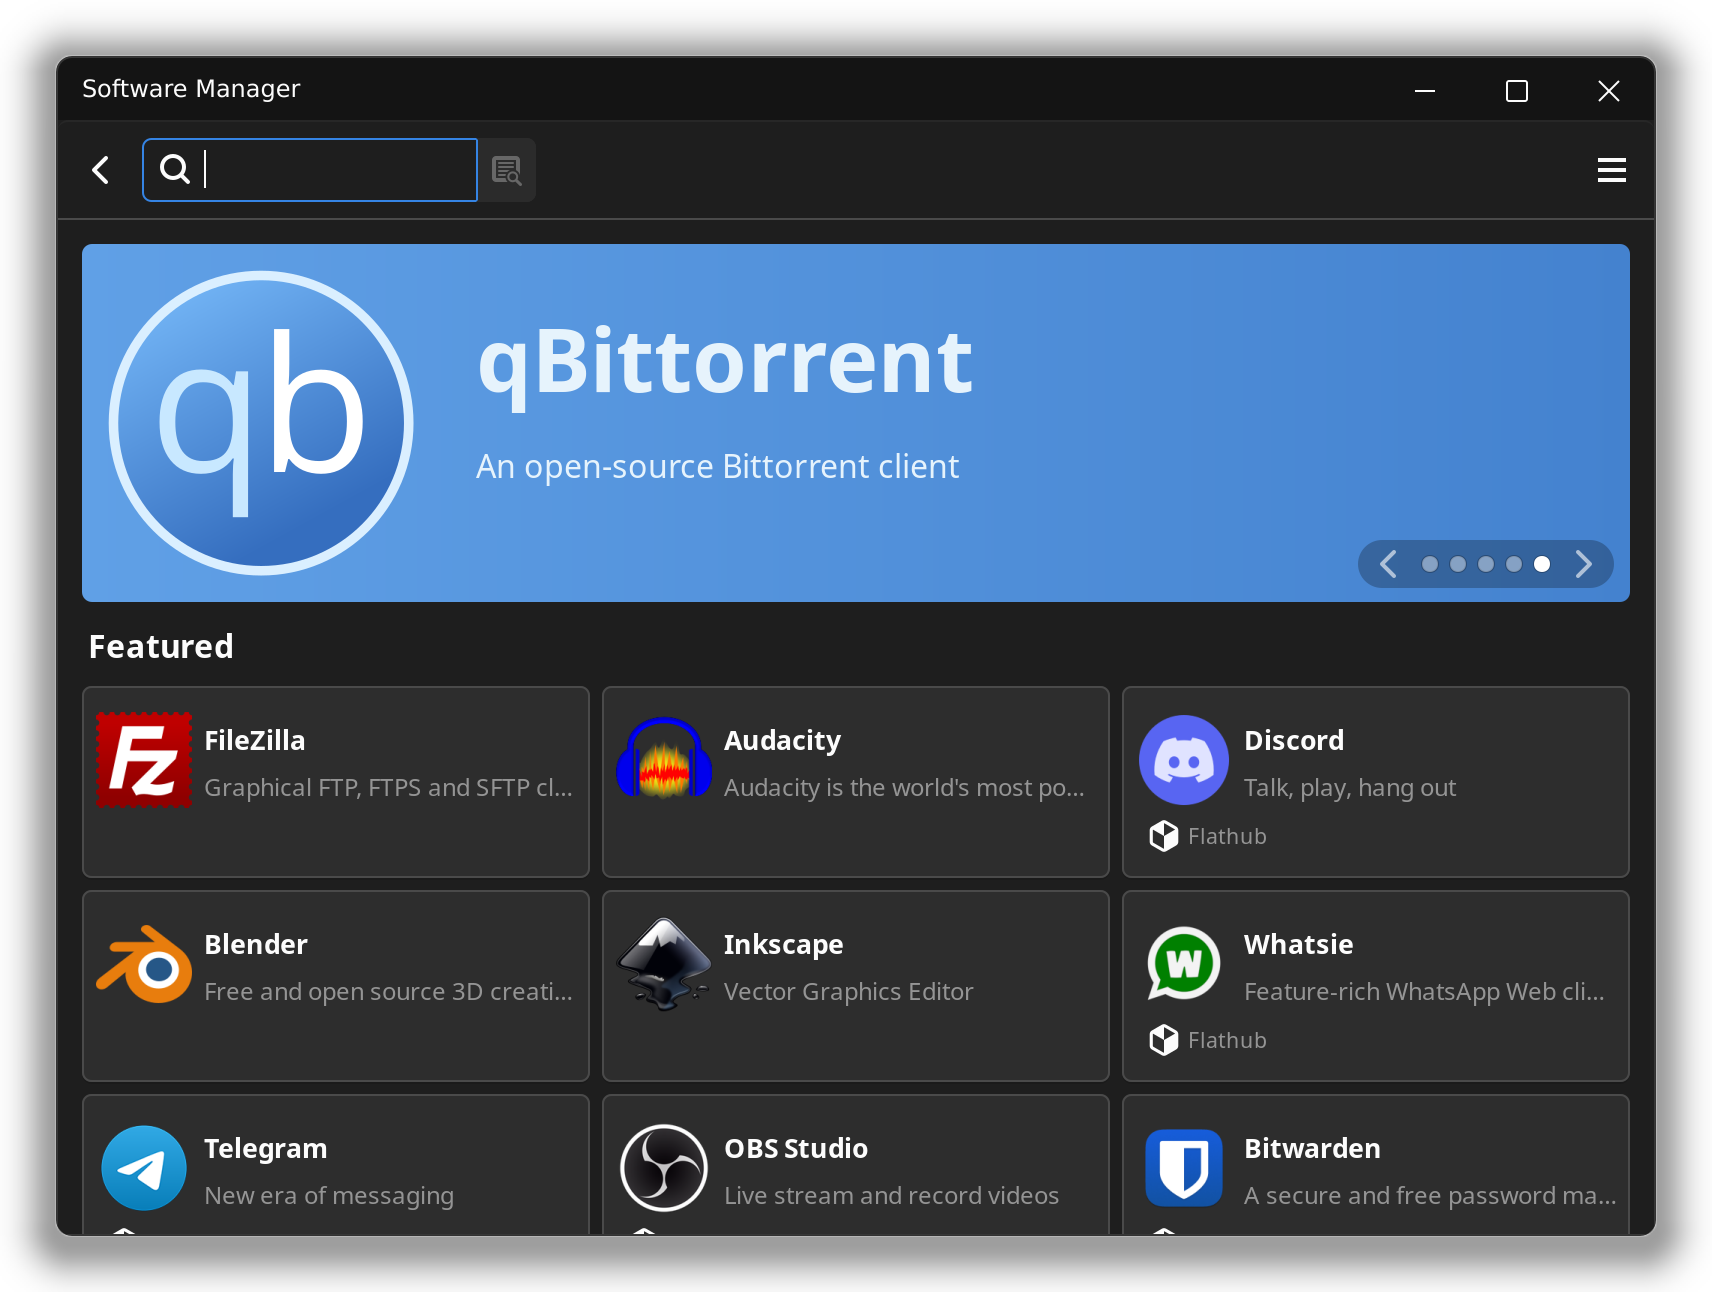
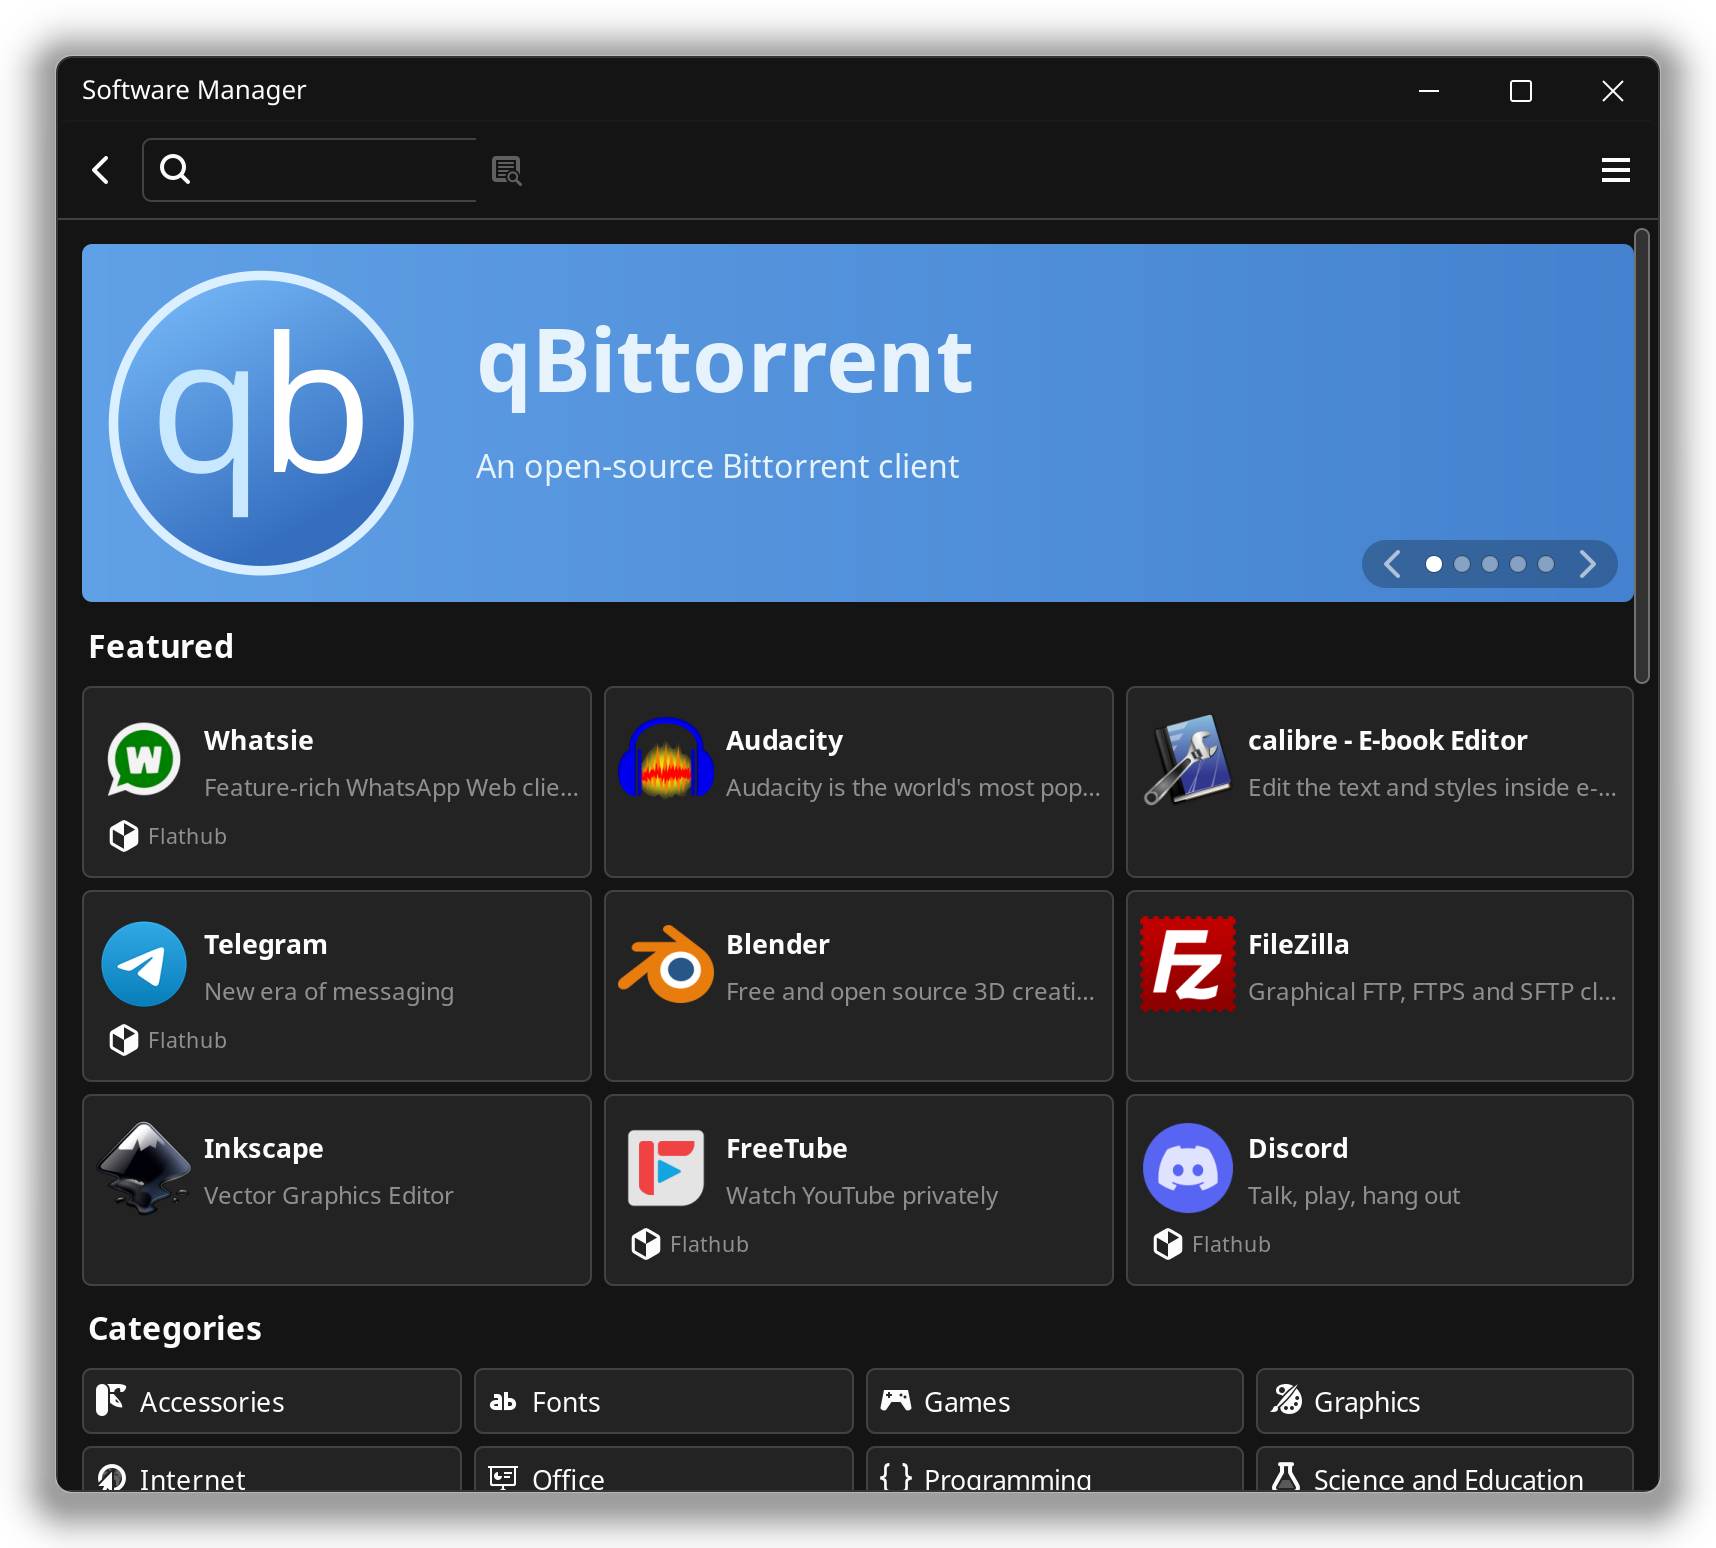
Website: new Software Manager screenshot; versioned image links
- The app store section uses the Software Manager screenshot picked for
  it (qBittorrent featured, more apps and the categories in view).
- Screenshot links carry a version (?v=2026-10-15), so browsers fetch
  the new pictures instead of showing cached ones with the same names.

Changed region(s): [[0.031, 0.031, 0.9597, 0.9907]]

diff --git a/website/index.html b/website/index.html
@@ -240,7 +240,7 @@ footer .brand { color: var(--ink); }
         <button role="tab" aria-selected="true" data-shot="dark" data-alt="The Files app and Software Update on the Shale desktop in the Shale theme, a near-black grey"><i style="background:#141414"></i>Shale</button>
         <button role="tab" aria-selected="false" data-shot="light" data-alt="The Files app and Software Update on the Shale desktop in the Shale Light theme, with a light wallpaper and light windows"><i style="background:#eff0f1"></i>Shale Light</button>
       </div>
-      <img class="screen" id="theme-shot" src="shots/dark.webp" width="1920" height="1080" alt="The Files app and Software Update on the Shale desktop in the Shale theme, a near-black grey" role="tabpanel">
+      <img class="screen" id="theme-shot" src="shots/dark.webp?v=2026-10-15" width="1920" height="1080" alt="The Files app and Software Update on the Shale desktop in the Shale theme, a near-black grey" role="tabpanel">
     </div>
   </section>
 
@@ -280,7 +280,7 @@ footer .brand { color: var(--ink); }
         <p class="lede">Games too: get Steam from the Software Manager and play your library.</p>
       </div>
       <div>
-        <img class="shot" src="software-manager.png" width="1712" height="1292" alt="The Software Manager in Shale, with qBittorrent featured and apps like FileZilla, Audacity, Discord, Blender and Inkscape">
+        <img class="shot" src="software-manager.png?v=2026-10-15" width="1716" height="1548" alt="The Software Manager in Shale, with qBittorrent featured, apps like Whatsie, Audacity, calibre, Telegram, Blender and Discord, and categories below">
         <p class="caption">The Software Manager, the app store that comes with Shale.</p>
       </div>
     </div>
@@ -299,7 +299,7 @@ footer .brand { color: var(--ink); }
           <p class="lede">Switch it on for every game at once, or tune one game: resolution, refresh rate, an FPS cap, FSR upscaling, variable refresh rate and HDR. Changes apply the next time you play, with no Steam restart.</p>
         </div>
       </div>
-      <figure class="solo"><img class="shot" src="game-panel.png" width="2992" height="1912" alt="Game Panel with Arma Reforger set to always run in gamescope, with its own resolution, a 120 fps cap, variable refresh rate and the MangoHud overlay"><figcaption class="caption">Game Panel comes with Shale: one switch for smooth games.</figcaption></figure>
+      <figure class="solo"><img class="shot" src="game-panel.png?v=2026-10-15" width="2992" height="1912" alt="Game Panel with Arma Reforger set to always run in gamescope, with its own resolution, a 120 fps cap, variable refresh rate and the MangoHud overlay"><figcaption class="caption">Game Panel comes with Shale: one switch for smooth games.</figcaption></figure>
     </div>
   </section>
 
@@ -349,7 +349,7 @@ footer .brand { color: var(--ink); }
           <p class="lede">A restore point is saved first, and you restart whenever it suits you.</p>
         </div>
       </div>
-      <figure class="solo"><img class="shot" src="update.png" width="1152" height="672" alt="Software Update saying Keep your computer safe and up to date, with an Update now button"><figcaption class="caption">One click, and you're up to date.</figcaption></figure>
+      <figure class="solo"><img class="shot" src="update.png?v=2026-10-15" width="1152" height="672" alt="Software Update saying Keep your computer safe and up to date, with an Update now button"><figcaption class="caption">One click, and you're up to date.</figcaption></figure>
     </div>
   </section>
 
@@ -417,13 +417,14 @@ footer .brand { color: var(--ink); }
 (() => {
   // Theme switcher: swap the screenshot when a tab is picked.
   const shot = document.getElementById("theme-shot");
+  const version = "2026-10-15";  // bump when the screenshots change, so browsers fetch the new ones
   const tabs = [...document.querySelectorAll('.tabs [role="tab"]')];
   tabs.forEach(tab => tab.addEventListener("click", () => {
     tabs.forEach(t => t.setAttribute("aria-selected", String(t === tab)));
-    shot.src = `shots/${tab.dataset.shot}.webp`;
+    shot.src = `shots/${tab.dataset.shot}.webp?v=${version}`;
     shot.alt = tab.dataset.alt;
   }));
-  tabs.forEach(t => { const i = new Image(); i.src = `shots/${t.dataset.shot}.webp`; });
+  tabs.forEach(t => { const i = new Image(); i.src = `shots/${t.dataset.shot}.webp?v=${version}`; });
 })();
 (() => {
   // Soft wavy strata across the bottom of the hero, in the logo's colours.
